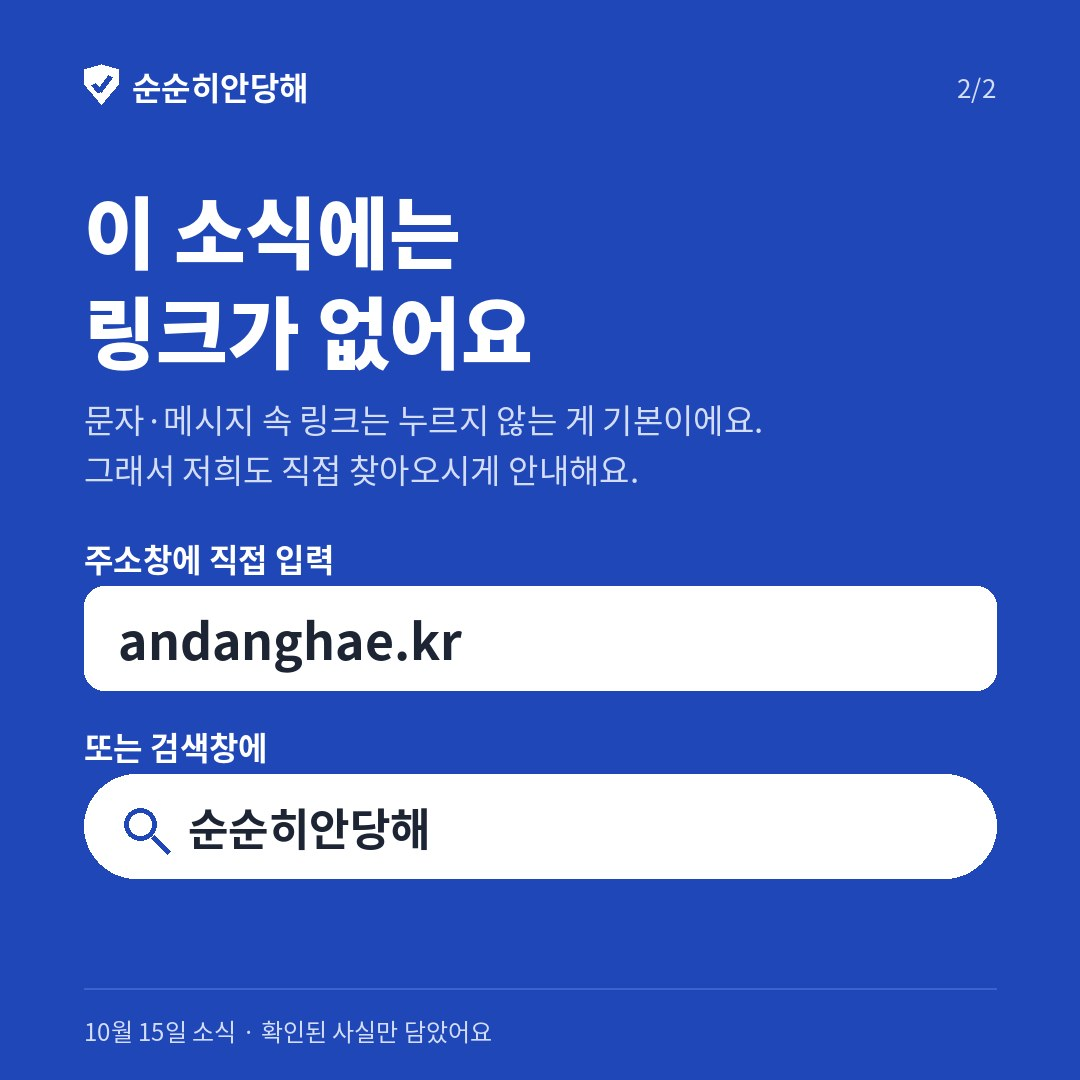
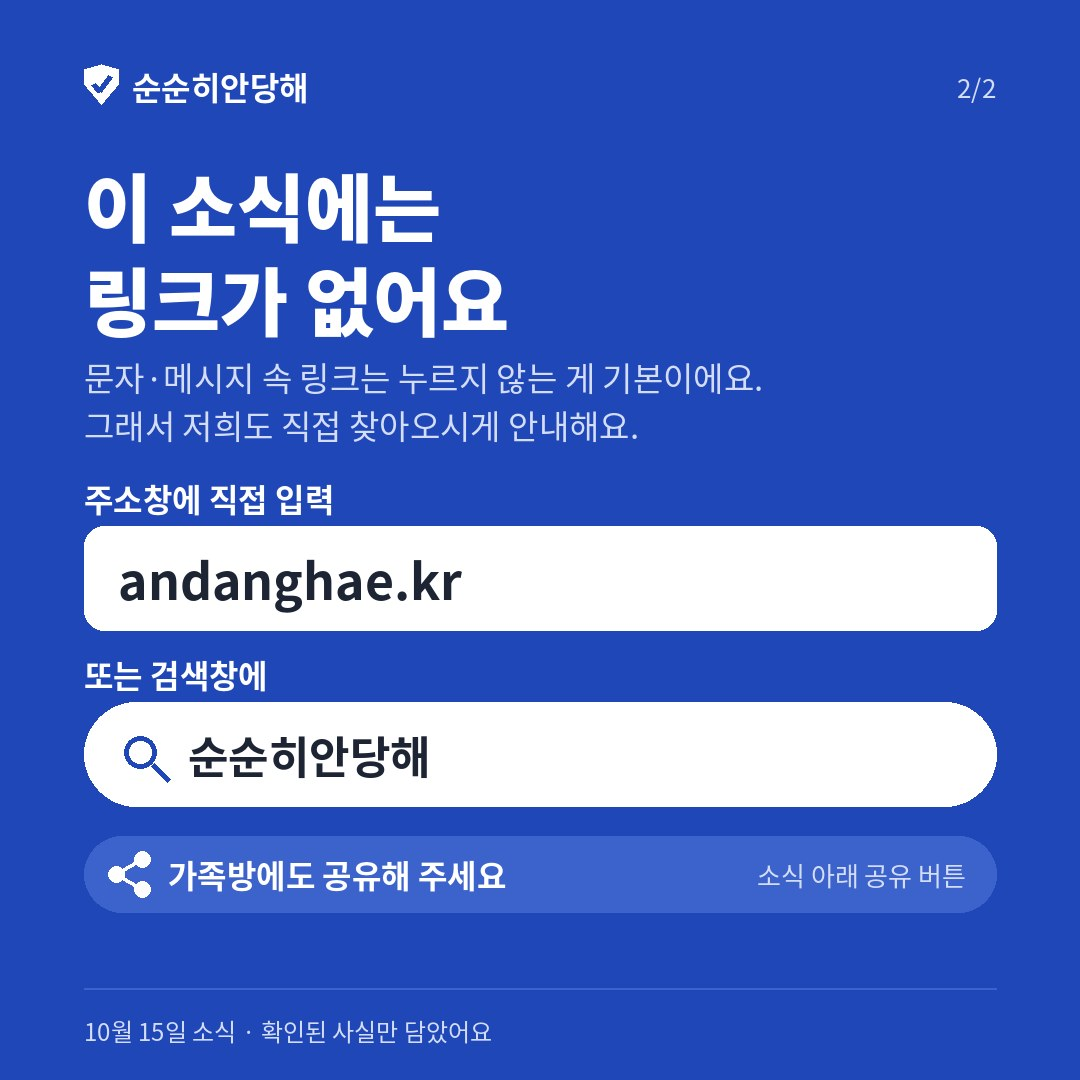
andanghae: 채널 소식 마지막 카드에 가족방 공유 띠 + 문구 공유 줄
Claude-Session: https://claude.ai/code/session_01NX3bhPew77XyQvSs8879SZ

Changed region(s): [[0.0611, 0.1528, 0.9472, 0.8556]]

diff --git a/andanghae/channel/adh-alert-20261015.html b/andanghae/channel/adh-alert-20261015.html
@@ -41,6 +41,8 @@ h2{font-size:16px;margin:0 0 8px}
 
 ▪ 출금하려면 세금·수수료를 먼저 내라고 하면 더 보내지 않기. 112나 1332에 신고하세요.
 
+가족방에도 공유해 주세요. 이 소식 아래 공유 버튼을 누르면 카톡 대화방으로 바로 보낼 수 있어요.
+
 이 소식에는 일부러 링크를 넣지 않았어요. 사이트 주소는 마지막 카드에 있어요. 주소창에 직접 입력하거나 검색창에 &#x27;순순히안당해&#x27;를 쳐서 들어와 보세요.</div>
 <button class="btn" onclick="cp('b',this)">문구 복사</button></div>
 <p class="note">이 화면은 운영자 확인용이에요(검색에 나오지 않아요). 고칠 곳이 있으면 Claude 대화창에 "이번 주 카드 2장째 이렇게 바꿔줘"처럼 말하면 돼요. 올리지 않아도 괜찮아요.</p>

diff --git a/andanghae/tools/make_channel_cards.py b/andanghae/tools/make_channel_cards.py
@@ -138,21 +138,21 @@ def items_card(page, head, items, date, kind):
 
 def end_card(date, page=4, total=4):
     img, d = base(page, date, total)
-    y = 172
+    y = 150
     for ln in ["이 소식에는", "링크가 없어요"]:
-        d.text((PAD, y), ln, font=f(78, "Black"), fill=ON)
-        y += 100
-    y += 22
+        d.text((PAD, y), ln, font=f(74, "Black"), fill=ON)
+        y += 94
+    y += 14
     for ln in ["문자·메시지 속 링크는 누르지 않는 게 기본이에요.", "그래서 저희도 직접 찾아오시게 안내해요."]:
         d.text((PAD, y), ln, font=f(33), fill=ON_SUB)
-        y += 50
-    y += 40
+        y += 48
+    y += 26
     # 1) 주소창에 직접 입력 (그림 속 글자라 눌리지 않음)
     d.text((PAD, y), "주소창에 직접 입력", font=f(32, "Bold"), fill=ON)
     y += 52
     d.rounded_rectangle([PAD, y, W - PAD, y + 104], radius=20, fill=CARD)
     d.text((PAD + 34, y + 52), "andanghae.kr", font=f(50, "Bold"), fill=INK, anchor="lm")
-    y += 136
+    y += 124
     # 2) 또는 검색
     d.text((PAD, y), "또는 검색창에", font=f(32, "Bold"), fill=ON)
     y += 52
@@ -161,8 +161,18 @@ def end_card(date, page=4, total=4):
     d.ellipse([cx - 18, cy - 18, cx + 14, cy + 14], outline=BG, width=5)
     d.line([(cx + 10, cy + 10), (cx + 26, cy + 26)], fill=BG, width=6)
     d.text((PAD + 104, cy), "순순히안당해", font=f(44, "Bold"), fill=INK, anchor="lm")
-    if y + 104 > H - 100:
-        print("[경고] 4번 카드가 넘칩니다")
+    y += 104 + 30
+    # 3) 가족방 공유 안내 (카카오 소식 아래 공유 버튼을 쓰게 안내)
+    d.rounded_rectangle([PAD, y, W - PAD, y + 76], radius=38, fill=PILL)
+    sx, sy = PAD + 46, y + 38          # 공유 모양(점 3개 연결)
+    pts = [(sx - 14, sy), (sx + 12, sy - 15), (sx + 12, sy + 15)]
+    d.line([pts[1], pts[0], pts[2]], fill=ON, width=4)
+    for (px, py) in pts:
+        d.ellipse([px - 8, py - 8, px + 8, py + 8], fill=ON)
+    d.text((PAD + 84, sy), "가족방에도 공유해 주세요", font=f(32, "Bold"), fill=ON, anchor="lm")
+    d.text((W - PAD - 30, sy), "소식 아래 공유 버튼", font=f(26), fill=ON_SUB, anchor="rm")
+    if y + 76 > H - 100:
+        print("[경고] 마지막 카드가 넘칩니다")
     return img
 
 
